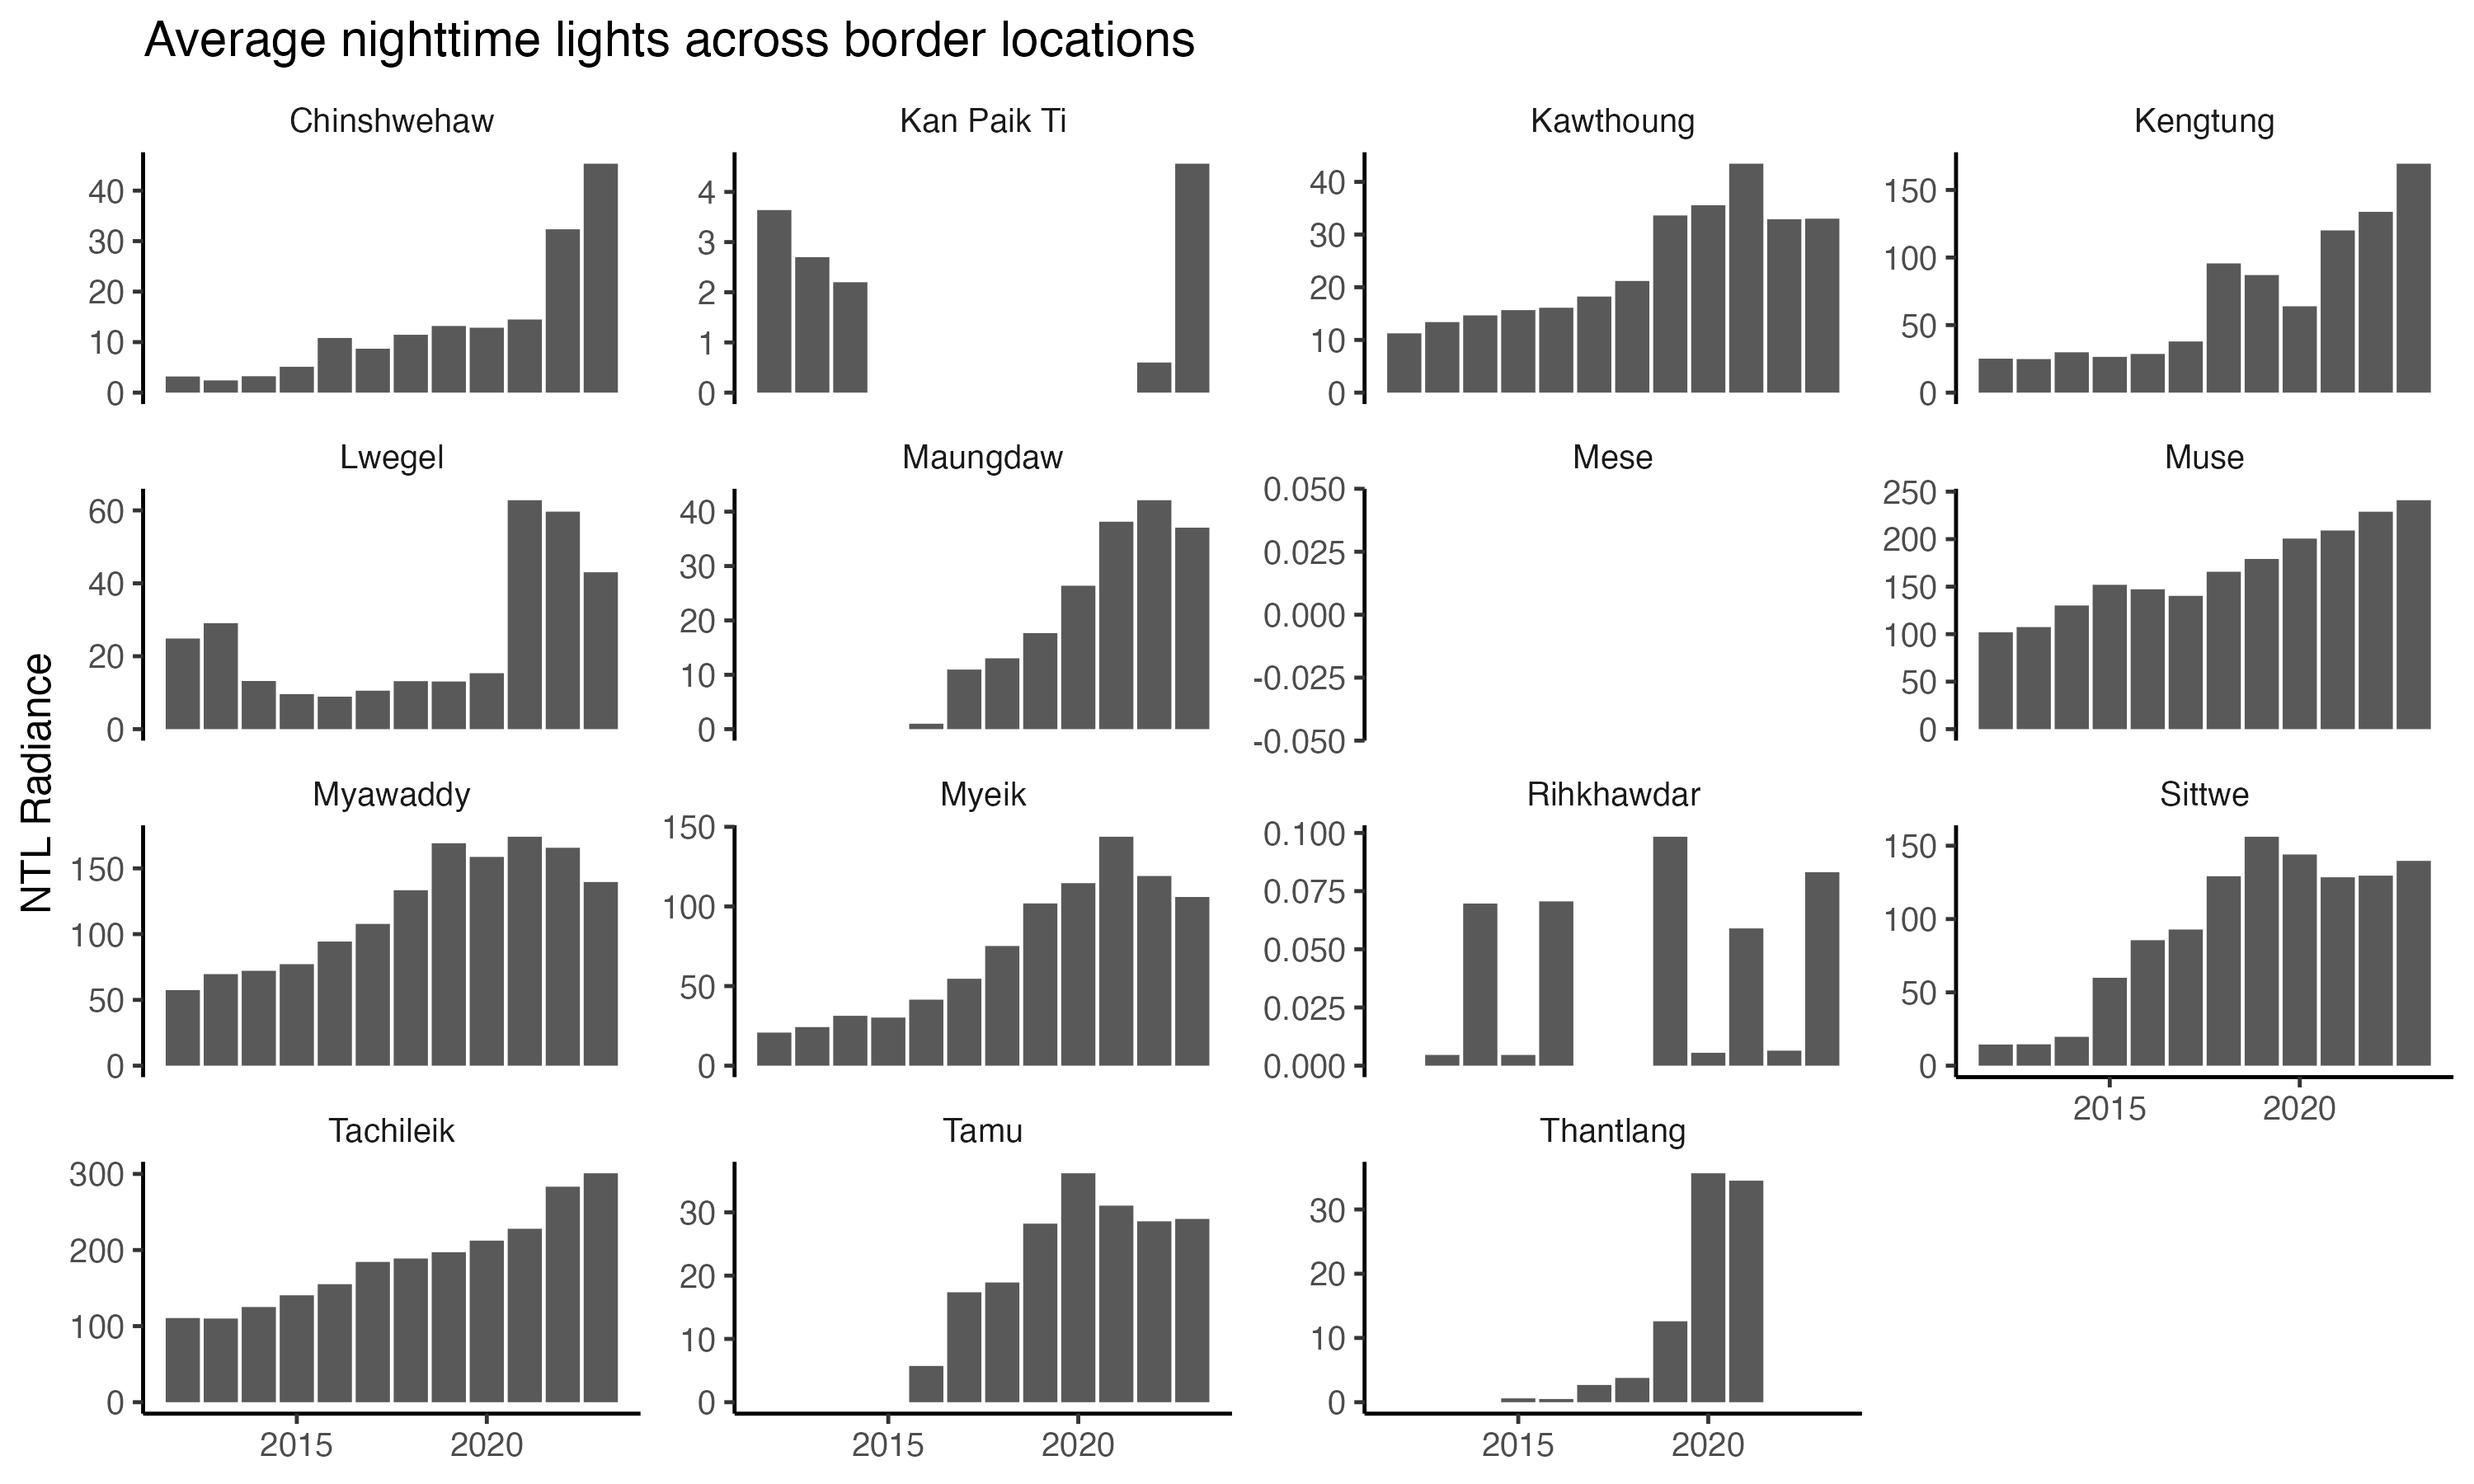
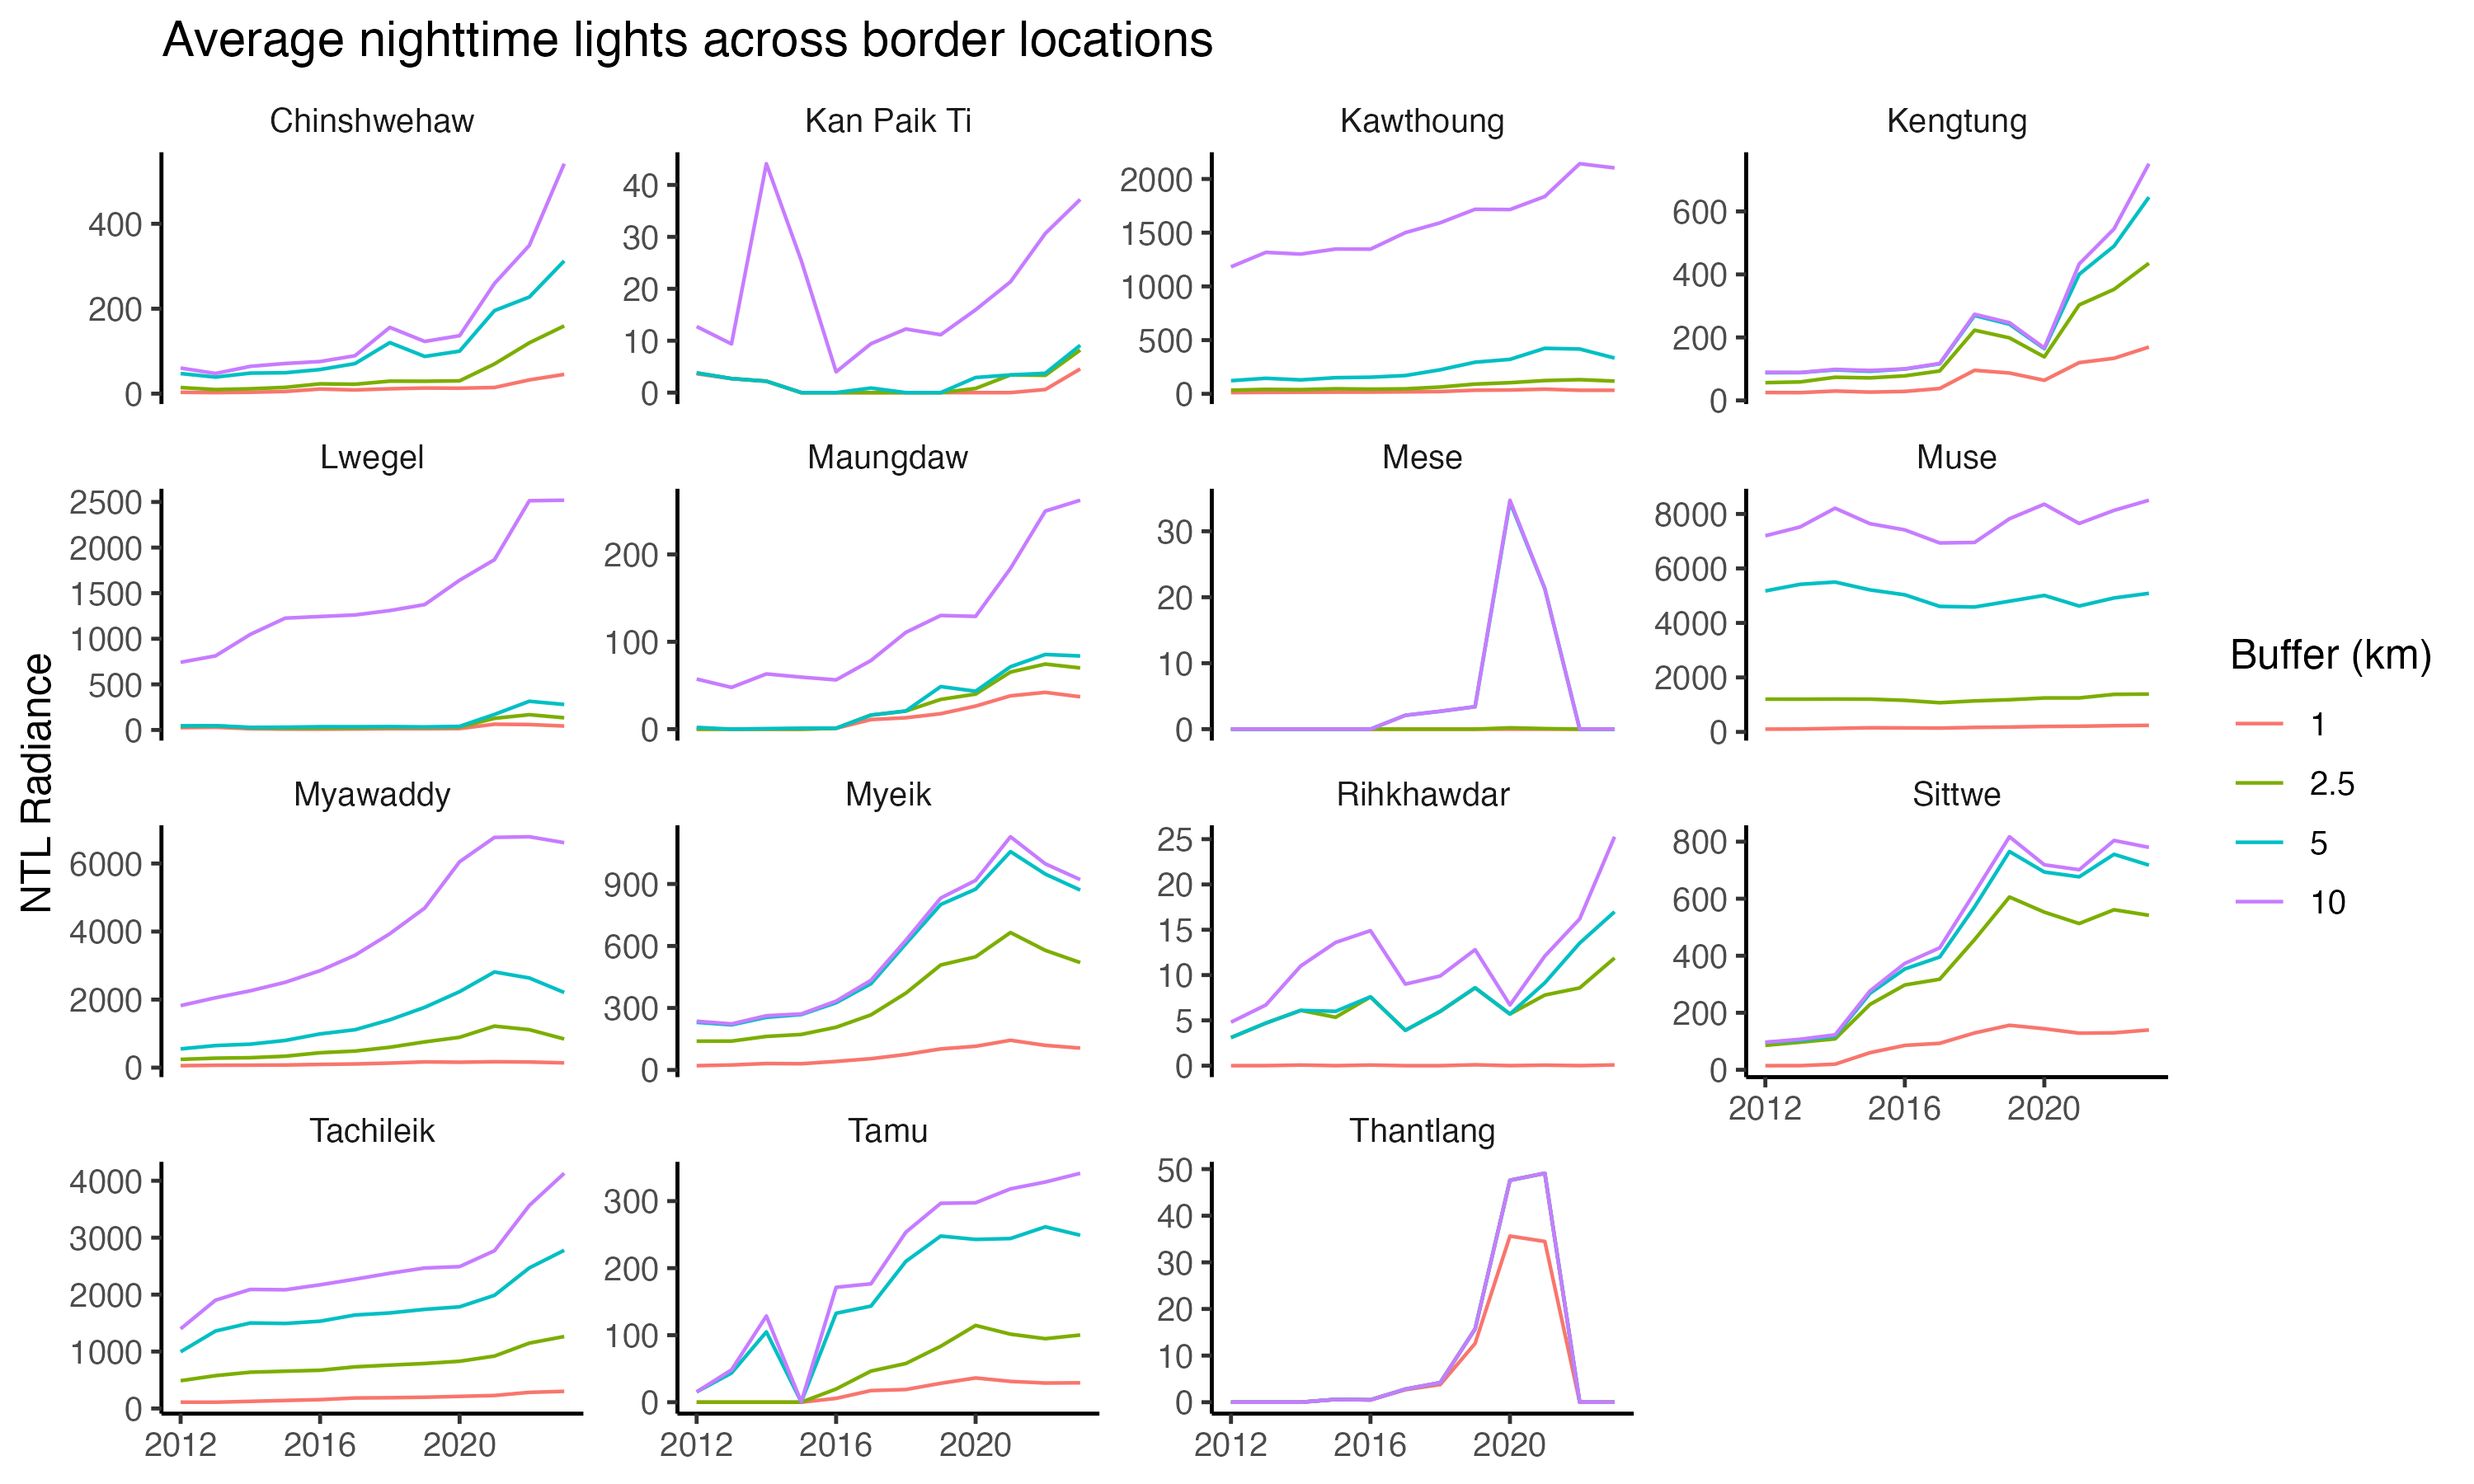
rwi

diff --git a/notebooks/nighttime-lights/analysis-2024/README.md b/notebooks/nighttime-lights/analysis-2024/README.md
@@ -54,6 +54,22 @@ Nighttime Lights
 
 ### Border Locations
 
+```{figure} ../../../reports/figures/ntl_border_overall.png
+---
+scale: 50%
+align: center
+---
+Nighttime Lights
+```
+
+```{figure} ../../../reports/figures/ntl_border_country.png
+---
+scale: 50%
+align: center
+---
+Nighttime Lights
+```
+
 ```{figure} ../../../reports/figures/ntl_border.png
 ---
 scale: 50%
@@ -96,6 +112,24 @@ scale: 50%
 align: center
 ---
 Nighttime Lights
+```
+
+### Nighttime lights and RWI
+
+```{figure} ../../../reports/figures/rwi_ntl_cor.png
+---
+scale: 50%
+align: center
+---
+Nighttime Lights and RWI Correlation
+```
+
+```{figure} ../../../reports/figures/rwi_q4_ntl_trends.png
+---
+scale: 50%
+align: center
+---
+Nighttime Lights and RWI Trends
 ```
 
 ## Limitations
